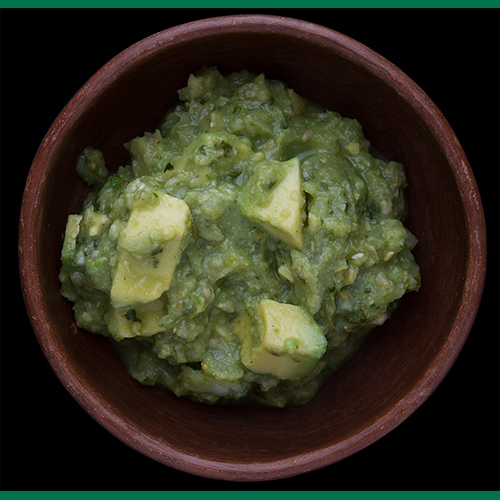
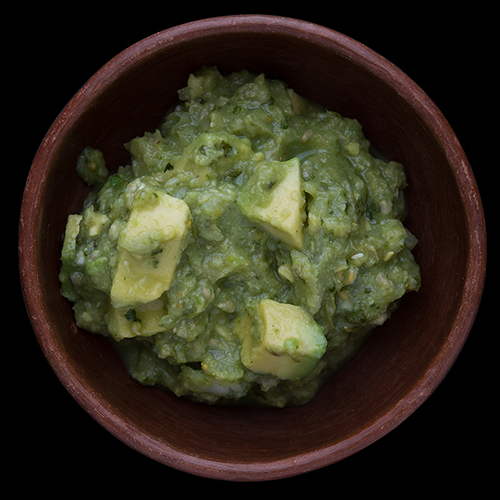
rettet body farve på siderne

Changed region(s): [[0.0, 0.96, 1.0, 1.0], [0.0, 0.0, 1.0, 0.03]]

diff --git a/index.css b/index.css
@@ -1,6 +1,6 @@
 :root {
     font-size: 62.5%;
-    --bodycolor: #01724c;
+    --bodycolor: black;
     --headercolor: #01724c;
     --lettercolor: #fff;
     --orangesection: #f17205;
